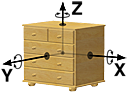
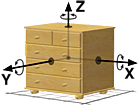
Changed furniture orientation labels
git-svn-id: https://svn.code.sf.net/p/sweethome3d/code@6145 03e323e1-6c6c-46a5-9f71-c4ce5d8c6204

diff --git a/trunk/SweetHome3D/src/com/eteks/sweethome3d/swing/HomeFurniturePanel.java b/trunk/SweetHome3D/src/com/eteks/sweethome3d/swing/HomeFurniturePanel.java
@@ -1127,64 +1127,81 @@ public class HomeFurniturePanel extends JPanel implements DialogView {
           0, 100, 2, 1, 0, 1, GridBagConstraints.LINE_START, 
           GridBagConstraints.BOTH, new Insets(0, 0, 0, 0), 0, 0));
       add(locationPanel, new GridBagConstraints(
-          0, 1, 1, 1, 1, 0, labelAlignment, GridBagConstraints.BOTH, new Insets(
+          0, 1, 1, 1, 1, 1, labelAlignment, GridBagConstraints.BOTH, new Insets(
           0, 0, rowGap, 0), 0, 0));
     }
-    // Orientation panel 
-    JPanel orientationPanel = SwingTools.createTitledPanel(preferences.getLocalizedString(
-        HomeFurniturePanel.class, "orientationPanel.title"));
     if (orientationPanelDisplayed) {
-      orientationPanel.add(this.angleLabel, new GridBagConstraints(
-          0, 0, 1, 1, 0, 0, GridBagConstraints.LINE_START, 
-          GridBagConstraints.NONE, 
-          new Insets(0, new JRadioButton().getPreferredSize().width, OperatingSystem.isMacOSX() ? 5 : 2, 5), 0, 0));
-      orientationPanel.add(this.angleSpinner, new GridBagConstraints(
-          1, 0, 1, 1, 0, 0, GridBagConstraints.LINE_START,
-          GridBagConstraints.HORIZONTAL, rightComponentInsets, 10, 0));
-    }
-    if (this.rollRadioButton != null) {
-      orientationPanel.add(this.rollRadioButton, new GridBagConstraints(
-          0, 1, 1, 1, 0, 0, GridBagConstraints.LINE_START, 
-          GridBagConstraints.NONE, new Insets(0, 0, OperatingSystem.isMacOSX() ? 5 : 1, 5), 0, 0));
-      orientationPanel.add(this.rollSpinner, new GridBagConstraints(
-          1, 1, 1, 1, 0, 0, GridBagConstraints.LINE_START,
-          GridBagConstraints.HORIZONTAL, rightComponentInsets, 10, 0));
-    }
-    if (this.pitchRadioButton != null) {
-      orientationPanel.add(this.pitchRadioButton, new GridBagConstraints(
-          0, 2, 1, 1, 0, 0, GridBagConstraints.LINE_START,
-          GridBagConstraints.NONE, new Insets(0, 0, OperatingSystem.isMacOSX() ? 5 : 1, 5), 0, 0));
-      orientationPanel.add(this.pitchSpinner, new GridBagConstraints(
-          1, 2, 1, 1, 0, 0, GridBagConstraints.LINE_START,
-          GridBagConstraints.HORIZONTAL, rightComponentInsets, 10, 0));
-    }
-    if (this.mirroredModelCheckBox != null
-        && orientationPanelDisplayed) {
-      orientationPanel.add(this.mirroredModelCheckBox, new GridBagConstraints(
-          0, 3, 2, 1, 0, 0, GridBagConstraints.LINE_START, 
-          GridBagConstraints.NONE, new Insets(0, 0, 0, 0), 0, 0));
-    }
-    if (this.rollRadioButton != null
-        && this.pitchRadioButton != null
-        && controller.isTexturable()) { 
-      // Do not display orientation label information for not texturable furniture to keep a balanced dialog box 
-      orientationPanel.add(new JLabel(new ImageIcon(getClass().getResource("resources/furnitureOrientation.png"))), new GridBagConstraints(
-          0, 4, 2, 1, 1, 1, GridBagConstraints.CENTER,
-          GridBagConstraints.BOTH, new Insets(10, 0, 5, 0), 0, 0));
-      JLabel orientationLabel = new JLabel(preferences.getLocalizedString(HomeFurniturePanel.class, "orientationLabel.text"));
-      // Use same font for label as tooltips
-      orientationLabel.setFont(UIManager.getFont("ToolTip.font"));
-      orientationPanel.add(orientationLabel, new GridBagConstraints(
-          0, 5, 2, 1, 1, 0, GridBagConstraints.NORTH,
-          GridBagConstraints.NONE, new Insets(0, 0, 0, 0), 0, 0));
-    }
-    if (orientationPanel.getComponentCount() > 0) {
-      orientationPanel.add(new JLabel(), new GridBagConstraints(
-          0, 100, 2, 1, 0, 1, GridBagConstraints.LINE_START, 
-          GridBagConstraints.BOTH, new Insets(5, 0, 0, 0), 0, 0));
-      add(orientationPanel, new GridBagConstraints(
-          1, 1, 1, 2, 1, 0, labelAlignment, GridBagConstraints.BOTH, new Insets(
-          0, 0, rowGap, 0), 0, 0));
+      // Orientation panel 
+      JPanel orientationPanel = SwingTools.createTitledPanel(preferences.getLocalizedString(
+          HomeFurniturePanel.class, "orientationPanel.title"));      
+      JLabel verticalRotationLabel = new JLabel(preferences.getLocalizedString(
+          HomeFurniturePanel.class, "verticalRotationLabel.text"));
+      JLabel horizontalRotationLabel = new JLabel(preferences.getLocalizedString(
+          HomeFurniturePanel.class, "horizontalRotationLabel.text"));
+      JLabel orientationLabel = new JLabel(preferences.getLocalizedString(
+          HomeFurniturePanel.class, "orientationLabel.text"));
+      // There are two possible layout depending whether horizontal and vertical rotation label are defined or not
+      boolean layoutWithHorizontalVerticalLabels = verticalRotationLabel.getText().length() > 0 
+          && horizontalRotationLabel.getText().length() > 0;
+      if (this.angleLabel != null) {
+        // Row 0 may contain verticalRotationLabel
+        orientationPanel.add(this.angleLabel, new GridBagConstraints(
+            0, 1, 1, 1, 0, 0, GridBagConstraints.LINE_START, 
+            GridBagConstraints.NONE, new Insets(0, new JRadioButton().getPreferredSize().width, OperatingSystem.isMacOSX() || layoutWithHorizontalVerticalLabels ? 5 : 2, 5), 0, 0));
+        orientationPanel.add(this.angleSpinner, new GridBagConstraints(
+            1, 1, 1, 1, 0, 0, GridBagConstraints.LINE_START,
+            GridBagConstraints.HORIZONTAL, rightComponentInsets, 10, 0));
+      }
+      Insets secondRadioButtonInsets = new Insets(0, 0, layoutWithHorizontalVerticalLabels ? 2 : (OperatingSystem.isMacOSX() ? 5 : 1), 5);
+      Insets secondSpinnerInsets = new Insets(0, 0, layoutWithHorizontalVerticalLabels ? 2 : 5, 0);
+      Insets thirdRadioButtonInsets = new Insets(0, 0, 0, 5);
+      Insets thirdSpinnerinsets = new Insets(0, 0, 0, 0);
+      if (this.pitchRadioButton != null) {
+        // Row 2 may contain horizontalRotationLabel
+        orientationPanel.add(this.pitchRadioButton, new GridBagConstraints(
+            0, layoutWithHorizontalVerticalLabels ? 3 : 4, 1, 1, 0, 0, GridBagConstraints.LINE_START,
+            GridBagConstraints.NONE, layoutWithHorizontalVerticalLabels ? secondRadioButtonInsets : thirdRadioButtonInsets, 0, 0));
+        orientationPanel.add(this.pitchSpinner, new GridBagConstraints(
+            1, layoutWithHorizontalVerticalLabels ? 3 : 4, 1, 1, 0, 0, GridBagConstraints.LINE_START,
+            GridBagConstraints.HORIZONTAL, layoutWithHorizontalVerticalLabels ? secondSpinnerInsets : thirdSpinnerinsets, 10, 0));
+      }
+      if (this.rollRadioButton != null) {
+        orientationPanel.add(this.rollRadioButton, new GridBagConstraints(
+            0, layoutWithHorizontalVerticalLabels ? 4 : 3, 1, 1, 0, 0, GridBagConstraints.LINE_START, 
+            GridBagConstraints.NONE, layoutWithHorizontalVerticalLabels ? thirdRadioButtonInsets : secondRadioButtonInsets, 0, 0));
+        orientationPanel.add(this.rollSpinner, new GridBagConstraints(
+            1, layoutWithHorizontalVerticalLabels ? 4 : 3, 1, 1, 0, 0, GridBagConstraints.LINE_START,
+            GridBagConstraints.HORIZONTAL, layoutWithHorizontalVerticalLabels ? thirdSpinnerinsets : secondSpinnerInsets, 10, 0));
+      }
+      if (this.rollRadioButton != null
+          && this.pitchRadioButton != null) { 
+        if (controller.isTexturable()) {
+          // Do not display orientation label information for not texturable furniture to keep a balanced dialog box 
+          orientationPanel.add(new JLabel(new ImageIcon(getClass().getResource("resources/furnitureOrientation.png"))), new GridBagConstraints(
+              0, 6, 2, 1, 1, layoutWithHorizontalVerticalLabels ? 1 : 0, GridBagConstraints.CENTER,
+              GridBagConstraints.BOTH, new Insets(10, 0, 5, 0), 0, 0));
+        }
+        if (layoutWithHorizontalVerticalLabels) {
+          // Add information labels about axes adjusting insets to align with components in other panels
+          orientationPanel.add(verticalRotationLabel, new GridBagConstraints(
+              0, 0, 2, 1, 0, 0, GridBagConstraints.LINE_START,
+              GridBagConstraints.NONE, new Insets(OperatingSystem.isMacOSX() ? 5 : 3, 0, OperatingSystem.isMacOSX() ? 10 : 8, 0), 0, 0));
+          orientationPanel.add(horizontalRotationLabel, new GridBagConstraints(
+              0, 2, 2, 1, 0, 0, GridBagConstraints.LINE_START,
+              GridBagConstraints.NONE, new Insets(OperatingSystem.isMacOSX() ? 5 : 3, 0, OperatingSystem.isMacOSX() ? 9 : 8, 0), 0, 0));
+        } else {
+          // Use same font for label as tooltips
+          orientationLabel.setFont(UIManager.getFont("ToolTip.font"));
+          orientationPanel.add(orientationLabel, new GridBagConstraints(
+              0, 7, 2, 1, 1, 1, GridBagConstraints.NORTH,
+              GridBagConstraints.NONE, new Insets(10, 0, 0, 0), 0, 0));
+        }
+      }
+      if (orientationPanel.getComponentCount() > 0) {
+        add(orientationPanel, new GridBagConstraints(
+            1, 1, 1, 2, 1, 0, labelAlignment, GridBagConstraints.BOTH, new Insets(
+            0, 0, rowGap, 0), 0, 0));
+      }
     }
     // Size panel
     JPanel sizePanel = SwingTools.createTitledPanel(preferences.getLocalizedString(
@@ -1215,18 +1232,17 @@ public class HomeFurniturePanel extends JPanel implements DialogView {
     }
     if (this.keepProportionsCheckBox != null) {
       sizePanel.add(this.keepProportionsCheckBox, new GridBagConstraints(
-          0, 3, 2, 1, 0, 1, GridBagConstraints.LINE_START, 
-          GridBagConstraints.NONE, rightComponentInsets, 0, 0));
+          0, 3, 2, 1, 0, 0, GridBagConstraints.LINE_START, 
+          GridBagConstraints.NONE, new Insets(0, 0, OperatingSystem.isMacOSX() ? 5 : 2, 0), 0, 0));
     }
-    if (this.mirroredModelCheckBox != null
-        && !orientationPanelDisplayed) {
+    if (this.mirroredModelCheckBox != null) {
       sizePanel.add(this.mirroredModelCheckBox, new GridBagConstraints(
           0, 4, 2, 1, 0, 1, GridBagConstraints.LINE_START, 
           GridBagConstraints.NONE, new Insets(0, 0, 0, 0), 0, 0));
     }
     if (sizePanel.getComponentCount() > 0) {
       add(sizePanel, new GridBagConstraints(
-          orientationPanelDisplayed ? 2 : 1, 1, 2, 1, 1, 0, labelAlignment, 
+          orientationPanelDisplayed ? 2 : 1, 1, 2, 1, 1, 1, labelAlignment, 
           GridBagConstraints.BOTH, new Insets(0, 0, rowGap, 0), 0, 0));
     }
     final JPanel paintPanel = SwingTools.createTitledPanel(preferences.getLocalizedString(
